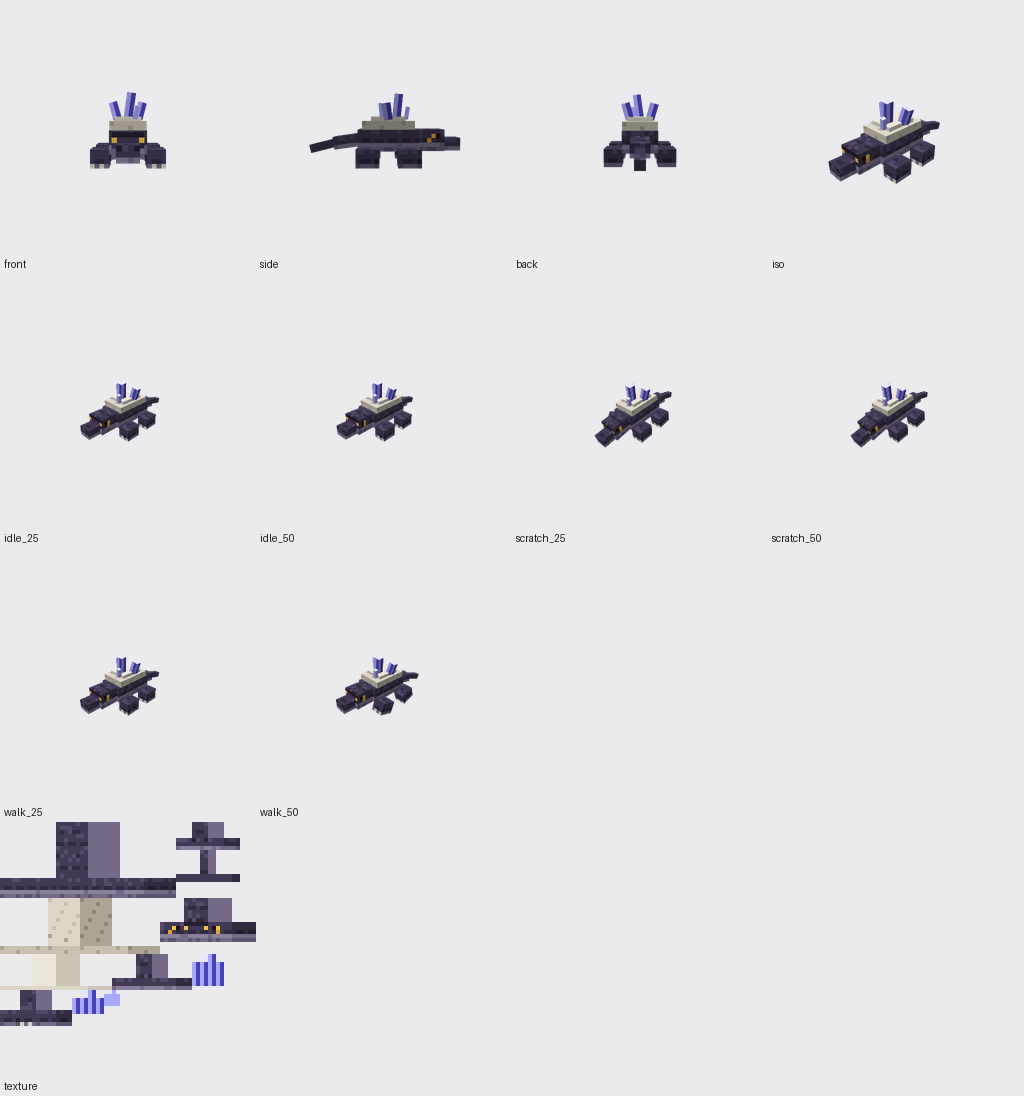
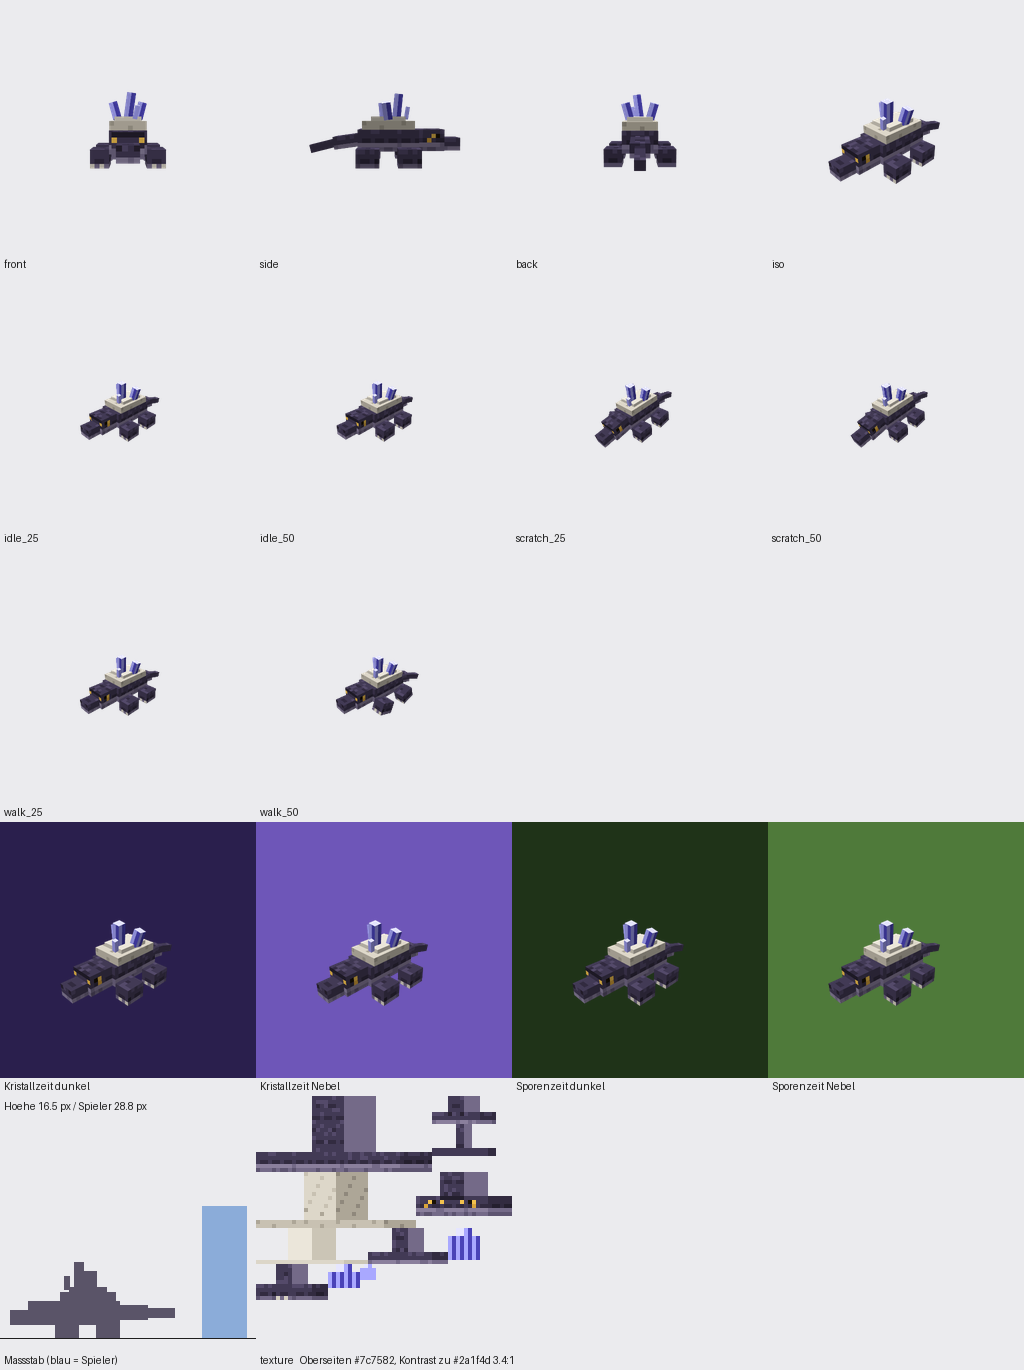
Prüfblatt: Epochen-Hintergründe, Spieler-Maßstab, Kontrast der Oberseiten; tools/anim_peaks.py für Posen am größten Ausschlag

diff --git a/tools/mob_sheet.py b/tools/mob_sheet.py
@@ -1,43 +1,129 @@
-"""Fasst die Screenshots eines Mobs zu einem Prüfblatt zusammen: mobs/<id>/review_sheet.png"""
+"""Fasst die Screenshots eines Mobs zu einem Prüfblatt zusammen: mobs/<id>/review_sheet.png
+
+Inhalt:
+- Ansichten front, side, back, iso
+- Animationsposen (shots/anim_*.png, aufgenommen am größten Ausschlag, siehe tools/anim_peaks.py)
+- die Schrägansicht vor den vier Epochen-Hintergründen (Kristallzeit, Sporenzeit, je dunkel/hell)
+- Größenvergleich mit dem Spieler (1,8 Blöcke = 28,8 px) in der Seitenansicht
+- Textur und Kontrast der Oberseiten zum dunklen Epochen-Hintergrund
+"""
+import json
+import math
 import os
 import sys
 
 from PIL import Image, ImageDraw
 
+sys.path.insert(0, os.path.dirname(__file__))
+from make_mob_textures import faces  # noqa: E402
+
 ROOT = os.path.join(os.path.dirname(__file__), '..', 'mobs')
+BACKGROUNDS = [('Kristallzeit dunkel', '#2a1f4d'), ('Kristallzeit Nebel', '#6e56b8'),
+               ('Sporenzeit dunkel', '#1f3318'), ('Sporenzeit Nebel', '#4f7a3a')]
+PLAYER_PX = 28.8
+CELL = 256
+
+
+def hex_rgb(h):
+    h = h.lstrip('#')
+    return tuple(int(h[i:i + 2], 16) for i in (0, 2, 4))
+
+
+def luminance(c):
+    def ch(v):
+        v /= 255
+        return v / 12.92 if v <= 0.03928 else ((v + 0.055) / 1.055) ** 2.4
+    r, g, b = (ch(v) for v in c[:3])
+    return 0.2126 * r + 0.7152 * g + 0.0722 * b
+
+
+def contrast(a, b):
+    la, lb = sorted((luminance(a), luminance(b)), reverse=True)
+    return (la + 0.05) / (lb + 0.05)
+
+
+def top_color(model, tex):
+    """Mittlere Farbe der Oberseiten, gewichtet nach Fläche (das, was man von oben sieht)."""
+    acc, n = [0, 0, 0], 0
+    for c in model['cubes']:
+        x0, y0, w, h = faces(c)['up']
+        for y in range(y0, y0 + h):
+            for x in range(x0, x0 + w):
+                p = tex.getpixel((x, y))
+                if p[3]:
+                    acc = [a + v for a, v in zip(acc, p[:3])]
+                    n += 1
+    return tuple(round(a / max(n, 1)) for a in acc)
+
+
+def scale_panel(model):
+    """Seitenansicht (Blick von +x) der Würfel in Ruhepose neben einer Spieler-Silhouette."""
+    img = Image.new('RGBA', (CELL, CELL), (235, 235, 238, 255))
+    d = ImageDraw.Draw(img)
+    zs = [v for c in model['cubes'] for v in (c['from'][2], c['to'][2])]
+    ys = [c['to'][1] for c in model['cubes']]
+    width = (max(zs) - min(zs)) + 6 + 9.6
+    height = max(max(ys), PLAYER_PX)
+    s = min((CELL - 20) / width, (CELL - 30) / height)
+    ground = CELL - 14
+
+    def box(z0, z1, y0, y1, fill):
+        d.rectangle([10 + z0 * s, ground - y1 * s, 10 + z1 * s, ground - y0 * s], fill=fill)
+
+    for c in model['cubes']:
+        box(c['from'][2] - min(zs), c['to'][2] - min(zs), c['from'][1], c['to'][1], (90, 84, 104, 255))
+    px = max(zs) - min(zs) + 6
+    box(px, px + 9.6, 0, PLAYER_PX, (60, 120, 200, 140))
+    d.line([0, ground, CELL, ground], fill=(30, 30, 30, 255))
+    d.text((4, 4), f'Hoehe {max(ys):g} px / Spieler {PLAYER_PX} px', fill=(30, 30, 30, 255))
+    return img
 
 
 def sheet(mob):
     shots = os.path.join(ROOT, mob, 'shots')
+    model = json.load(open(os.path.join(ROOT, mob, 'model.json'), encoding='utf-8'))
+    tex = Image.open(os.path.join(ROOT, mob, 'texture.png')).convert('RGBA')
     views = ['front', 'side', 'back', 'iso']
     anims = sorted(f for f in os.listdir(shots) if f.startswith('anim_'))
-    cell = 256
     cols = 4
-    rows = 1 + (len(anims) + cols - 1) // cols + 1
-    out = Image.new('RGBA', (cols * cell, rows * (cell + 18)), (235, 235, 238, 255))
+    anim_rows = (len(anims) + cols - 1) // cols
+    rows = 1 + anim_rows + 1 + 1
+    lh = 18
+    out = Image.new('RGBA', (cols * CELL, rows * (CELL + lh)), (235, 235, 238, 255))
     d = ImageDraw.Draw(out)
 
-    def put(path, i, label, size=cell):
-        x, y = (i % cols) * cell, (i // cols) * (cell + 18)
-        im = Image.open(path).convert('RGBA').resize((size, size), Image.LANCZOS)
+    def place(im, i, label, bg=None):
+        x, y = (i % cols) * CELL, (i // cols) * (CELL + lh)
+        im = im.convert('RGBA').resize((CELL, CELL), Image.LANCZOS)
+        if bg:
+            out.paste(Image.new('RGBA', (CELL, CELL), hex_rgb(bg) + (255,)), (x, y))
         out.alpha_composite(im, (x, y))
-        d.text((x + 4, y + size + 2), label, fill=(30, 30, 30, 255))
+        d.text((x + 4, y + CELL + 2), label, fill=(30, 30, 30, 255))
 
     for i, v in enumerate(views):
-        put(os.path.join(shots, v + '.png'), i, v)
+        place(Image.open(os.path.join(shots, v + '.png')), i, v)
     for j, a in enumerate(anims):
-        put(os.path.join(shots, a), cols + j, a[5:-4])
-    tex = Image.open(os.path.join(ROOT, mob, 'texture.png')).convert('RGBA')
-    scale = max(1, min(cell * 2 // tex.width, cell // tex.height))
-    y = (rows - 1) * (cell + 18)
-    out.alpha_composite(tex.resize((tex.width * scale, tex.height * scale), Image.NEAREST), (0, y))
-    d.text((4, y + tex.height * scale + 2), 'texture', fill=(30, 30, 30, 255))
+        place(Image.open(os.path.join(shots, a)), cols + j, a[5:-4])
+    row = 1 + anim_rows
+    iso = Image.open(os.path.join(shots, 'iso.png'))
+    for k, (label, bg) in enumerate(BACKGROUNDS):
+        place(iso, row * cols + k, label, bg)
+    row += 1
+    place(scale_panel(model), row * cols, 'Massstab (blau = Spieler)')
+    top = top_color(model, tex)
+    ratio = contrast(top, hex_rgb('#2a1f4d'))
+    x, y = CELL, row * (CELL + lh)
+    texscale = max(1, min(2 * CELL // tex.width, CELL // tex.height))
+    out.alpha_composite(tex.resize((tex.width * texscale, tex.height * texscale), Image.NEAREST), (x, y))
+    d.text((x + 4, y + CELL + 2), f'texture   Oberseiten #{top[0]:02x}{top[1]:02x}{top[2]:02x}, '
+                                  f'Kontrast zu #2a1f4d {ratio:.1f}:1', fill=(30, 30, 30, 255))
     path = os.path.join(ROOT, mob, 'review_sheet.png')
     out.save(path)
-    return path
+    return path, ratio
 
 
 if __name__ == '__main__':
     for m in sys.argv[1:] or sorted(os.listdir(ROOT)):
         if os.path.isdir(os.path.join(ROOT, m, 'shots')):
-            print(os.path.normpath(sheet(m)))
+            path, ratio = sheet(m)
+            print(f'{os.path.normpath(path)}  (Kontrast Oberseiten {ratio:.1f}:1)')

diff --git a/tools/anim_peaks.py b/tools/anim_peaks.py
@@ -1,0 +1,53 @@
+"""Findet pro Animation den Zeitpunkt mit dem größten Ausschlag (für die Bilder im Prüfblatt).
+
+Aufruf: python3 tools/anim_peaks.py [mob-id ...]
+
+Ausschlag = Summe über alle Knochen: Rotation in Grad + Position × 5 + |Skalierung − 1| × 100.
+Abgetastet wird alle 0,05 s, linear interpoliert. Für die Wahl des Zeitpunkts reicht das.
+"""
+import json
+import os
+import sys
+
+ROOT = os.path.join(os.path.dirname(__file__), '..', 'mobs')
+WEIGHT = {'rotation': 1.0, 'position': 5.0, 'scale': 100.0}
+
+
+def value_at(keys, t):
+    keys = sorted(keys, key=lambda k: k['time'])
+    if t <= keys[0]['time']:
+        return keys[0]['value']
+    for a, b in zip(keys, keys[1:]):
+        if a['time'] <= t <= b['time']:
+            f = (t - a['time']) / ((b['time'] - a['time']) or 1)
+            return [x + (y - x) * f for x, y in zip(a['value'], b['value'])]
+    return keys[-1]['value']
+
+
+def deflection(anim, t):
+    channels = {}
+    for k in anim['keyframes']:
+        channels.setdefault((k['bone'], k.get('channel', 'rotation')), []).append(k)
+    total = 0.0
+    for (_, channel), keys in channels.items():
+        v = value_at(keys, t)
+        base = 1.0 if channel == 'scale' else 0.0
+        total += sum(abs(x - base) for x in v) * WEIGHT[channel]
+    return total
+
+
+def peak_time(anim):
+    steps = int(round(anim['length'] / 0.05))
+    times = [round(i * 0.05, 2) for i in range(steps + 1)]
+    return max(times, key=lambda t: deflection(anim, t))
+
+
+def peaks(mob_id):
+    model = json.load(open(os.path.join(ROOT, mob_id, 'model.json'), encoding='utf-8'))
+    return {a['name'].split('.')[-1]: peak_time(a) for a in model.get('animations', [])}
+
+
+if __name__ == '__main__':
+    ids = sys.argv[1:] or sorted(d for d in os.listdir(ROOT) if os.path.isfile(os.path.join(ROOT, d, 'model.json')))
+    for mob in ids:
+        print(mob, json.dumps(peaks(mob)))
